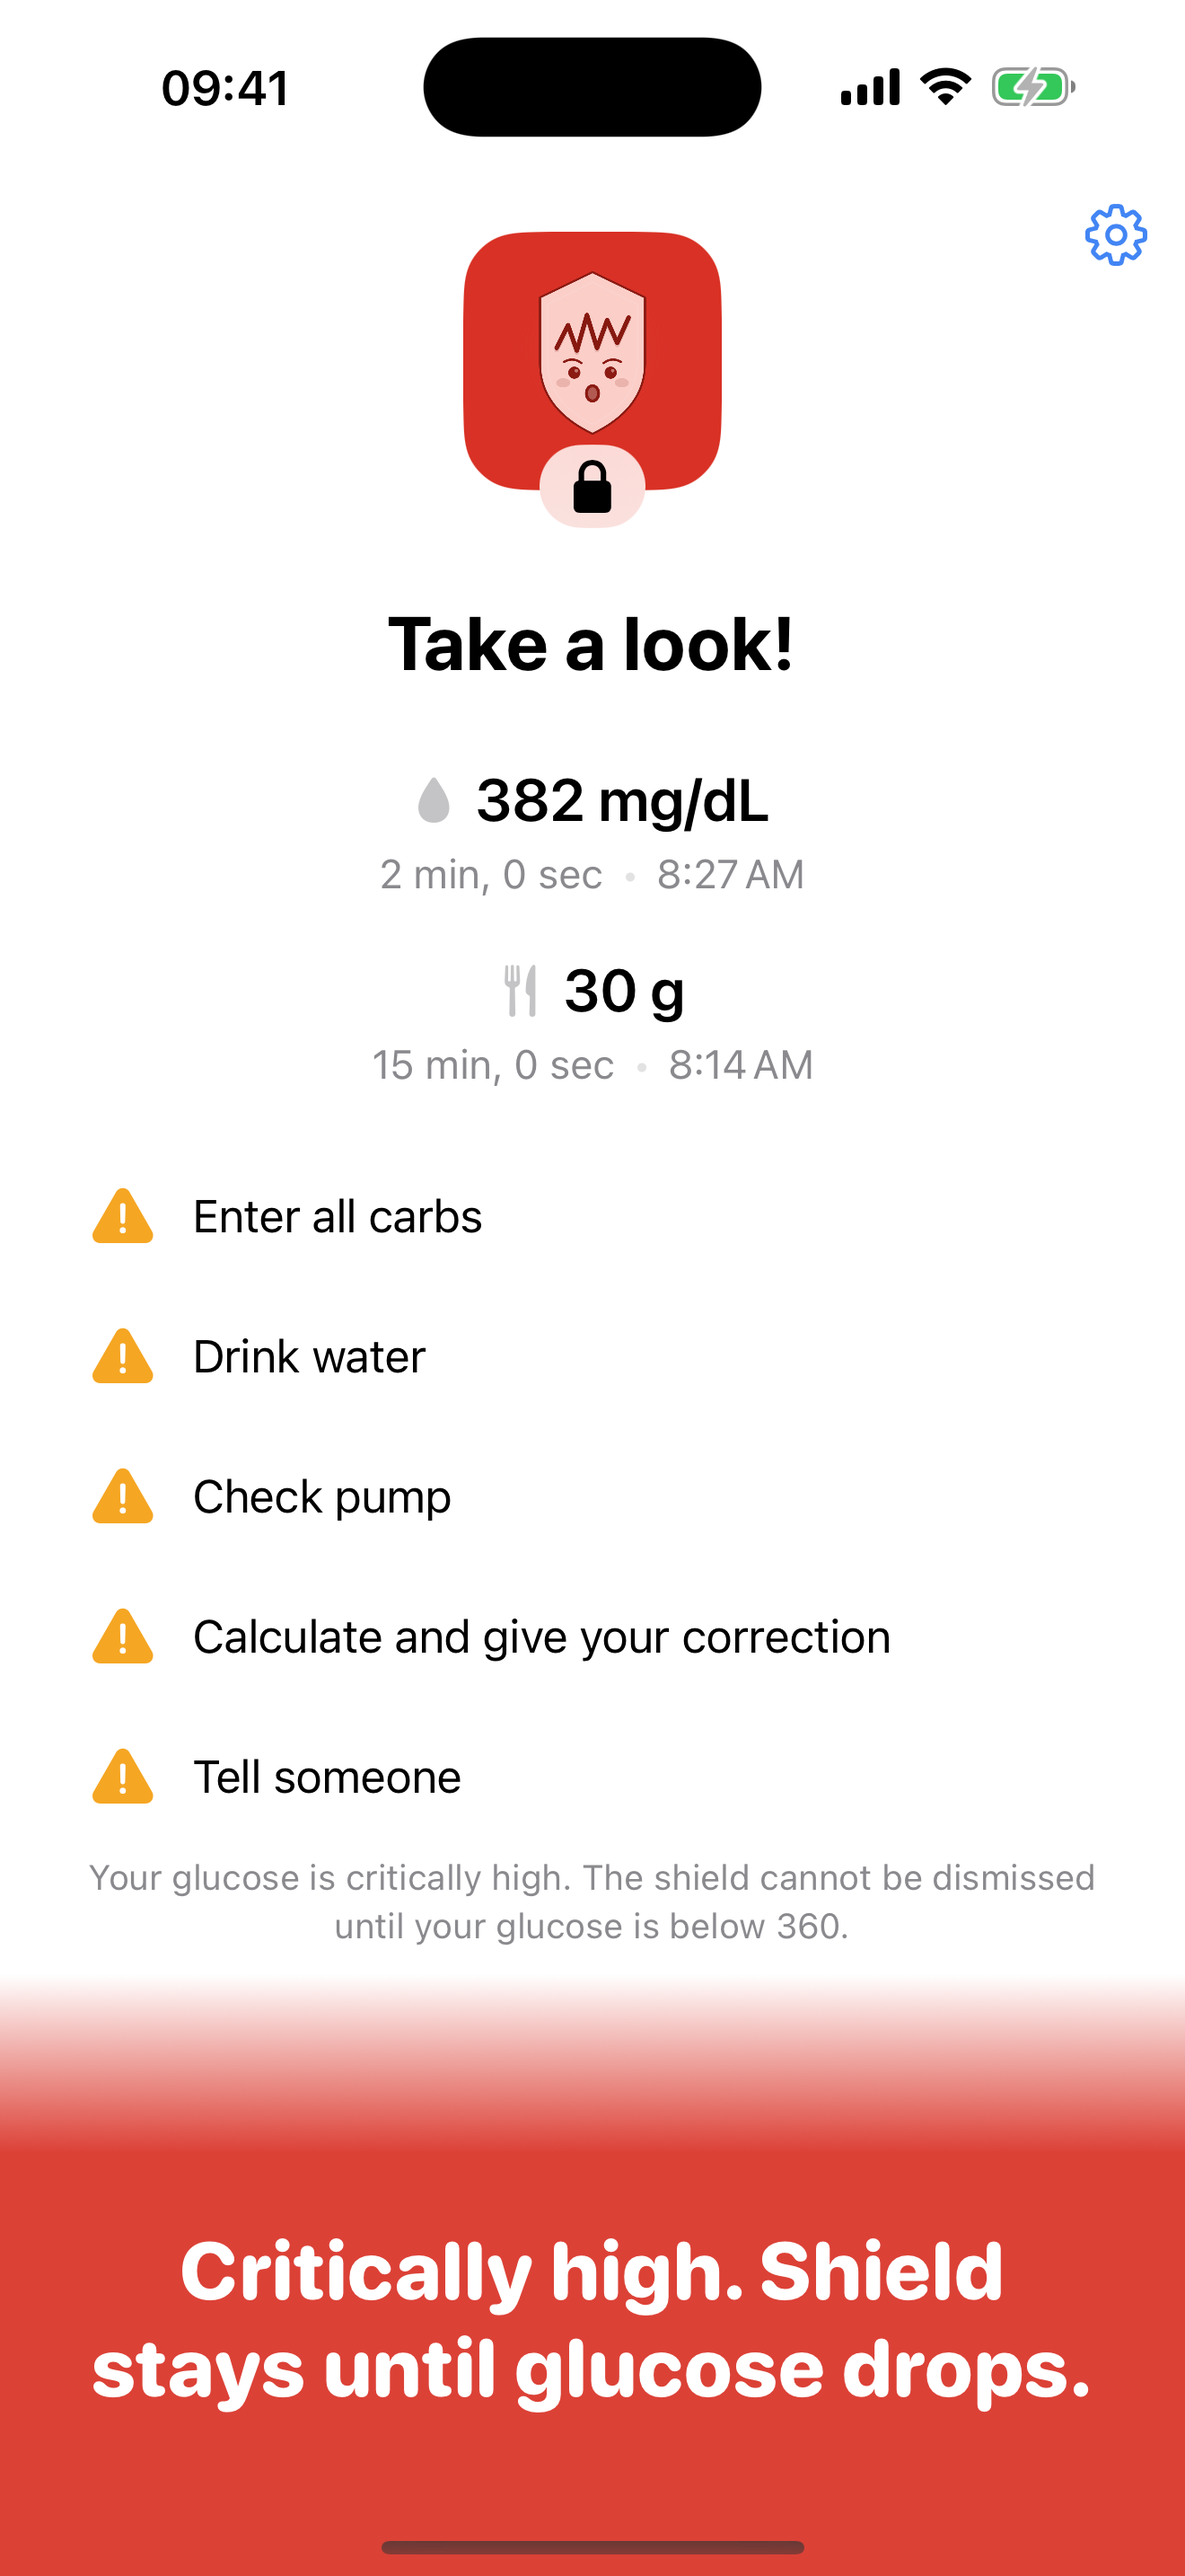
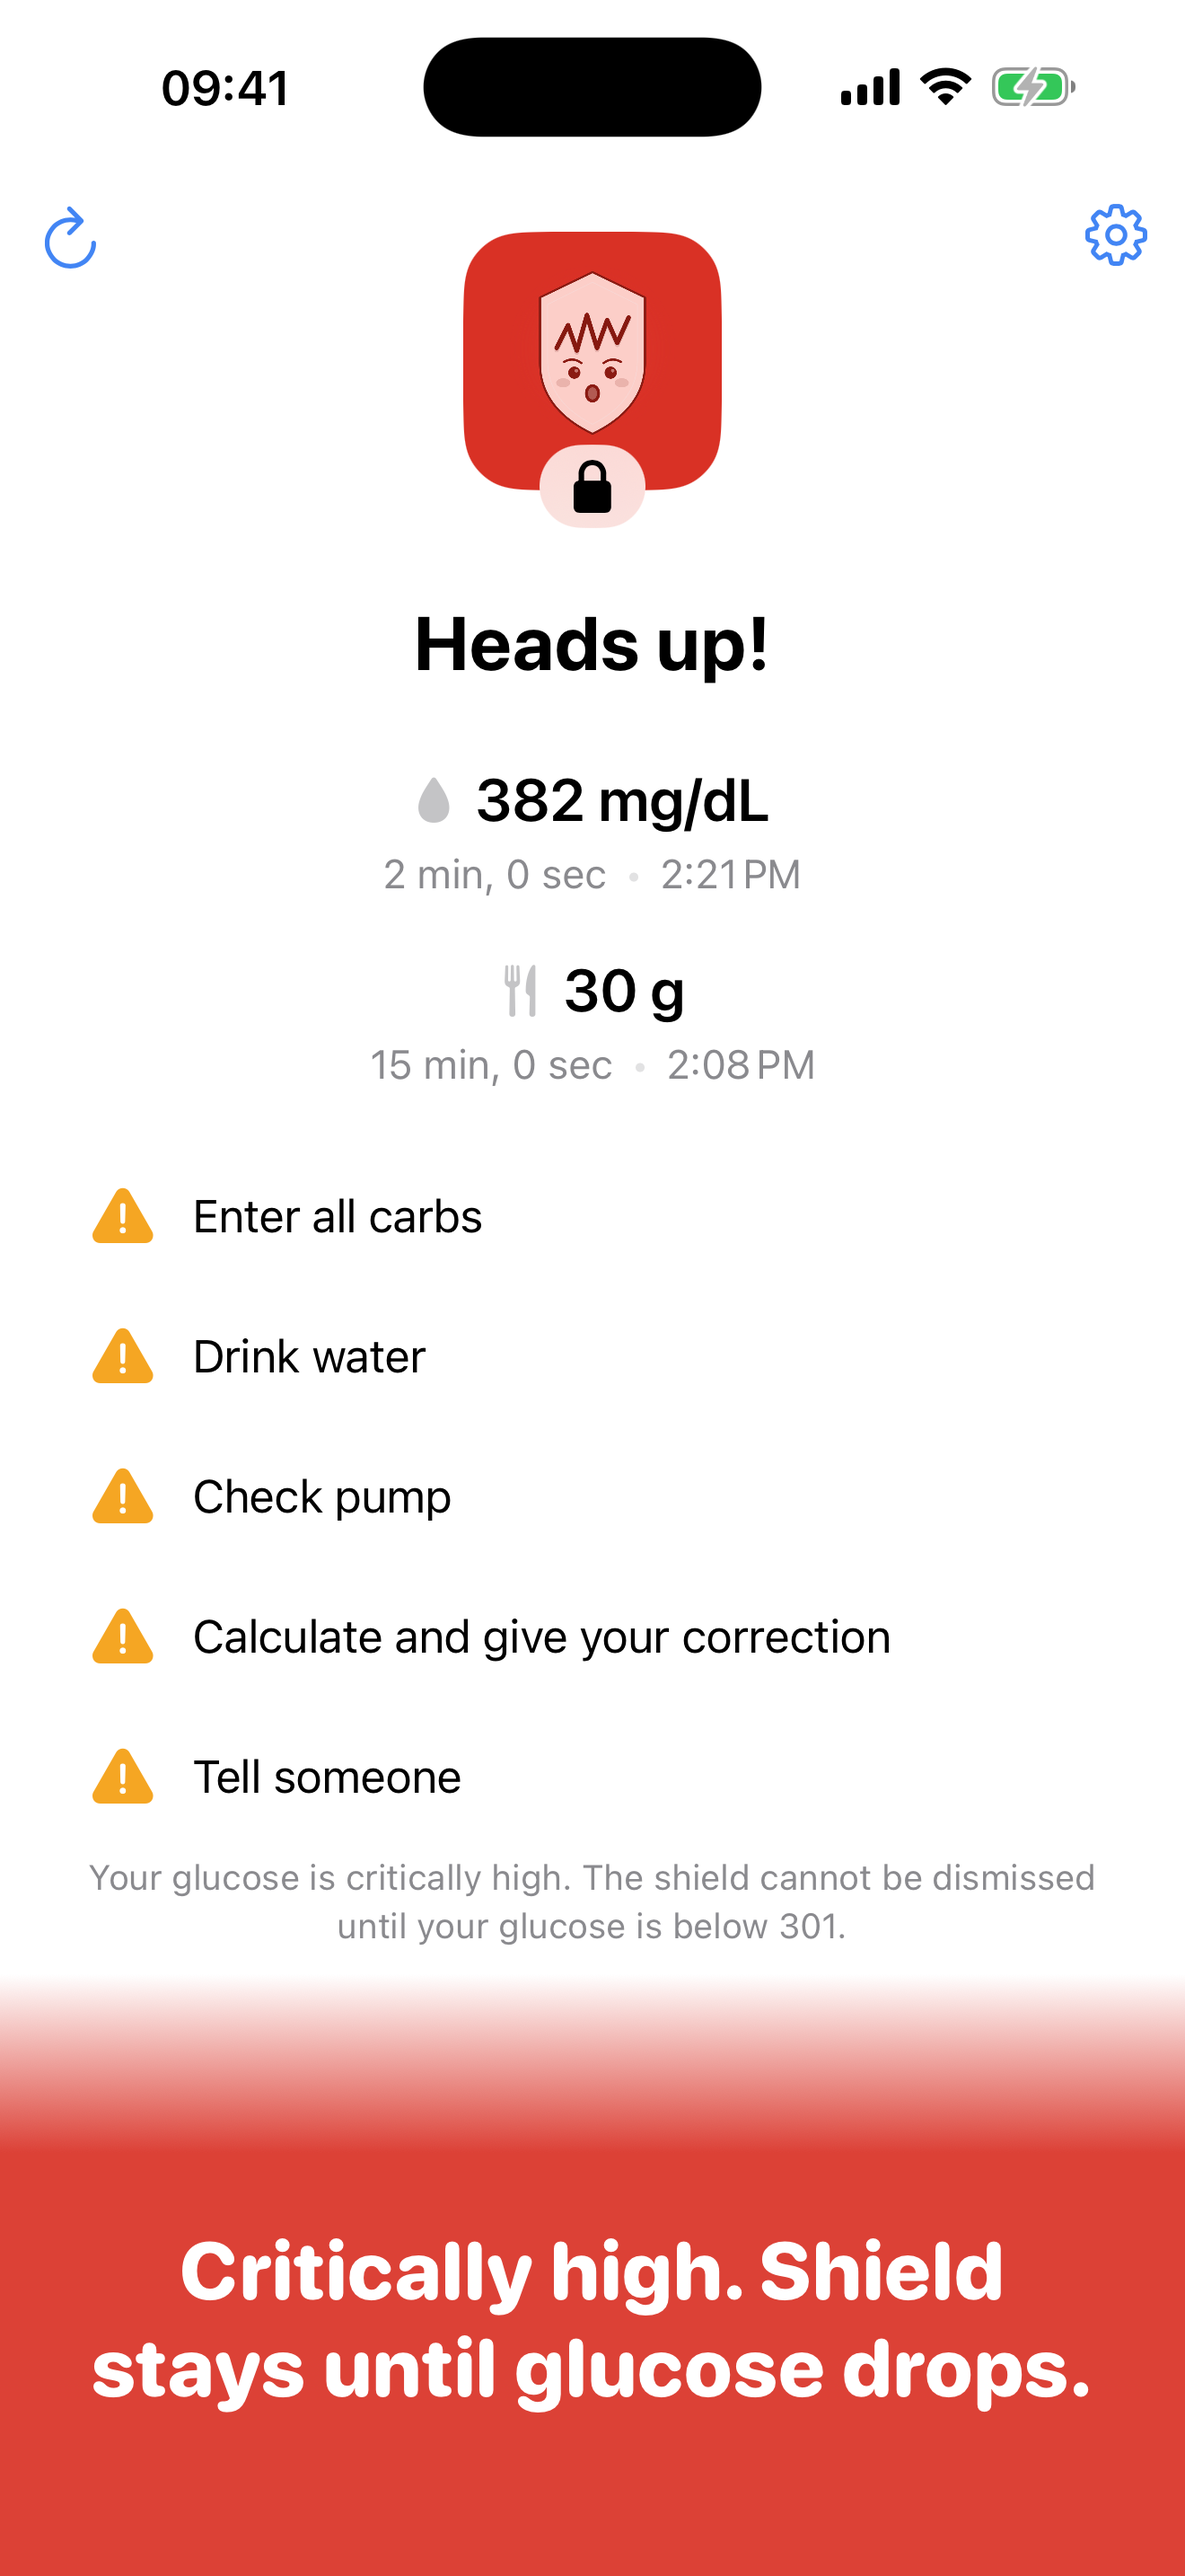
docs: add Low Power Mode FAQ, Logs to AGENTS.md, refresh App Store screenshots
Home and Watch screenshots now show the refresh button. Widgets, Settings and
setup-checklist shots are visually unchanged and left as they were.

diff --git a/AGENTS.md b/AGENTS.md
@@ -272,6 +272,7 @@ If the passphrase is forgotten: delete and reinstall the app (requires the paren
 - Carb grace period (hour/minute)
 - Glucose badge (off / always / only when attention needed)
 - Passphrase change
+- Logs (read-only history of data refreshes for diagnosing late data; can be cleared)
 
 **Shields are NEVER removed during the settings flow.** Opening settings does not temporarily disable shielding.
 
